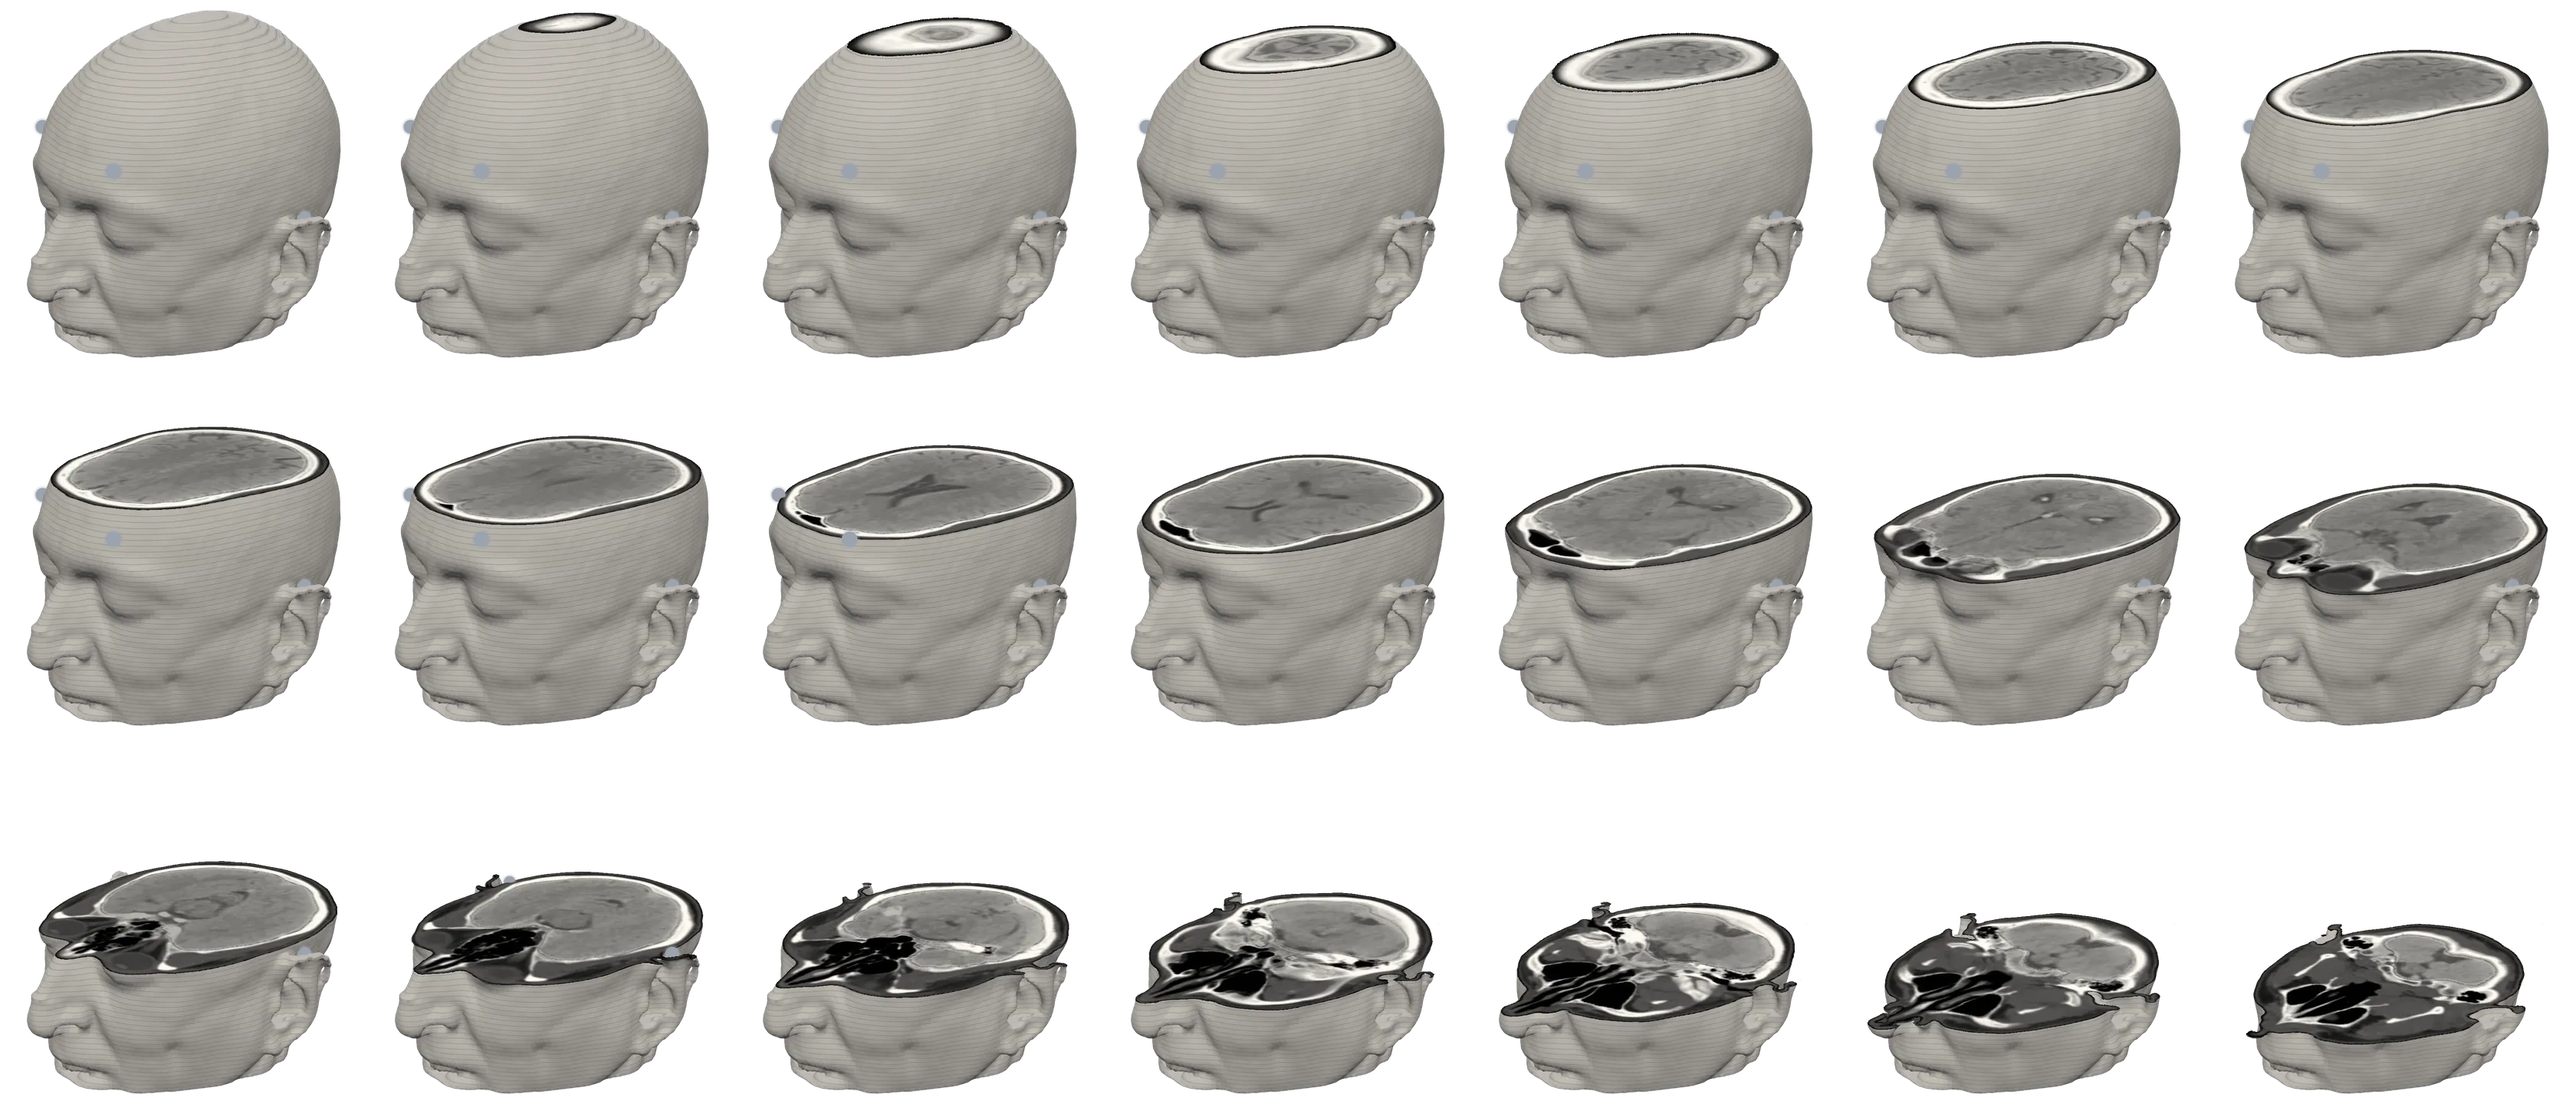
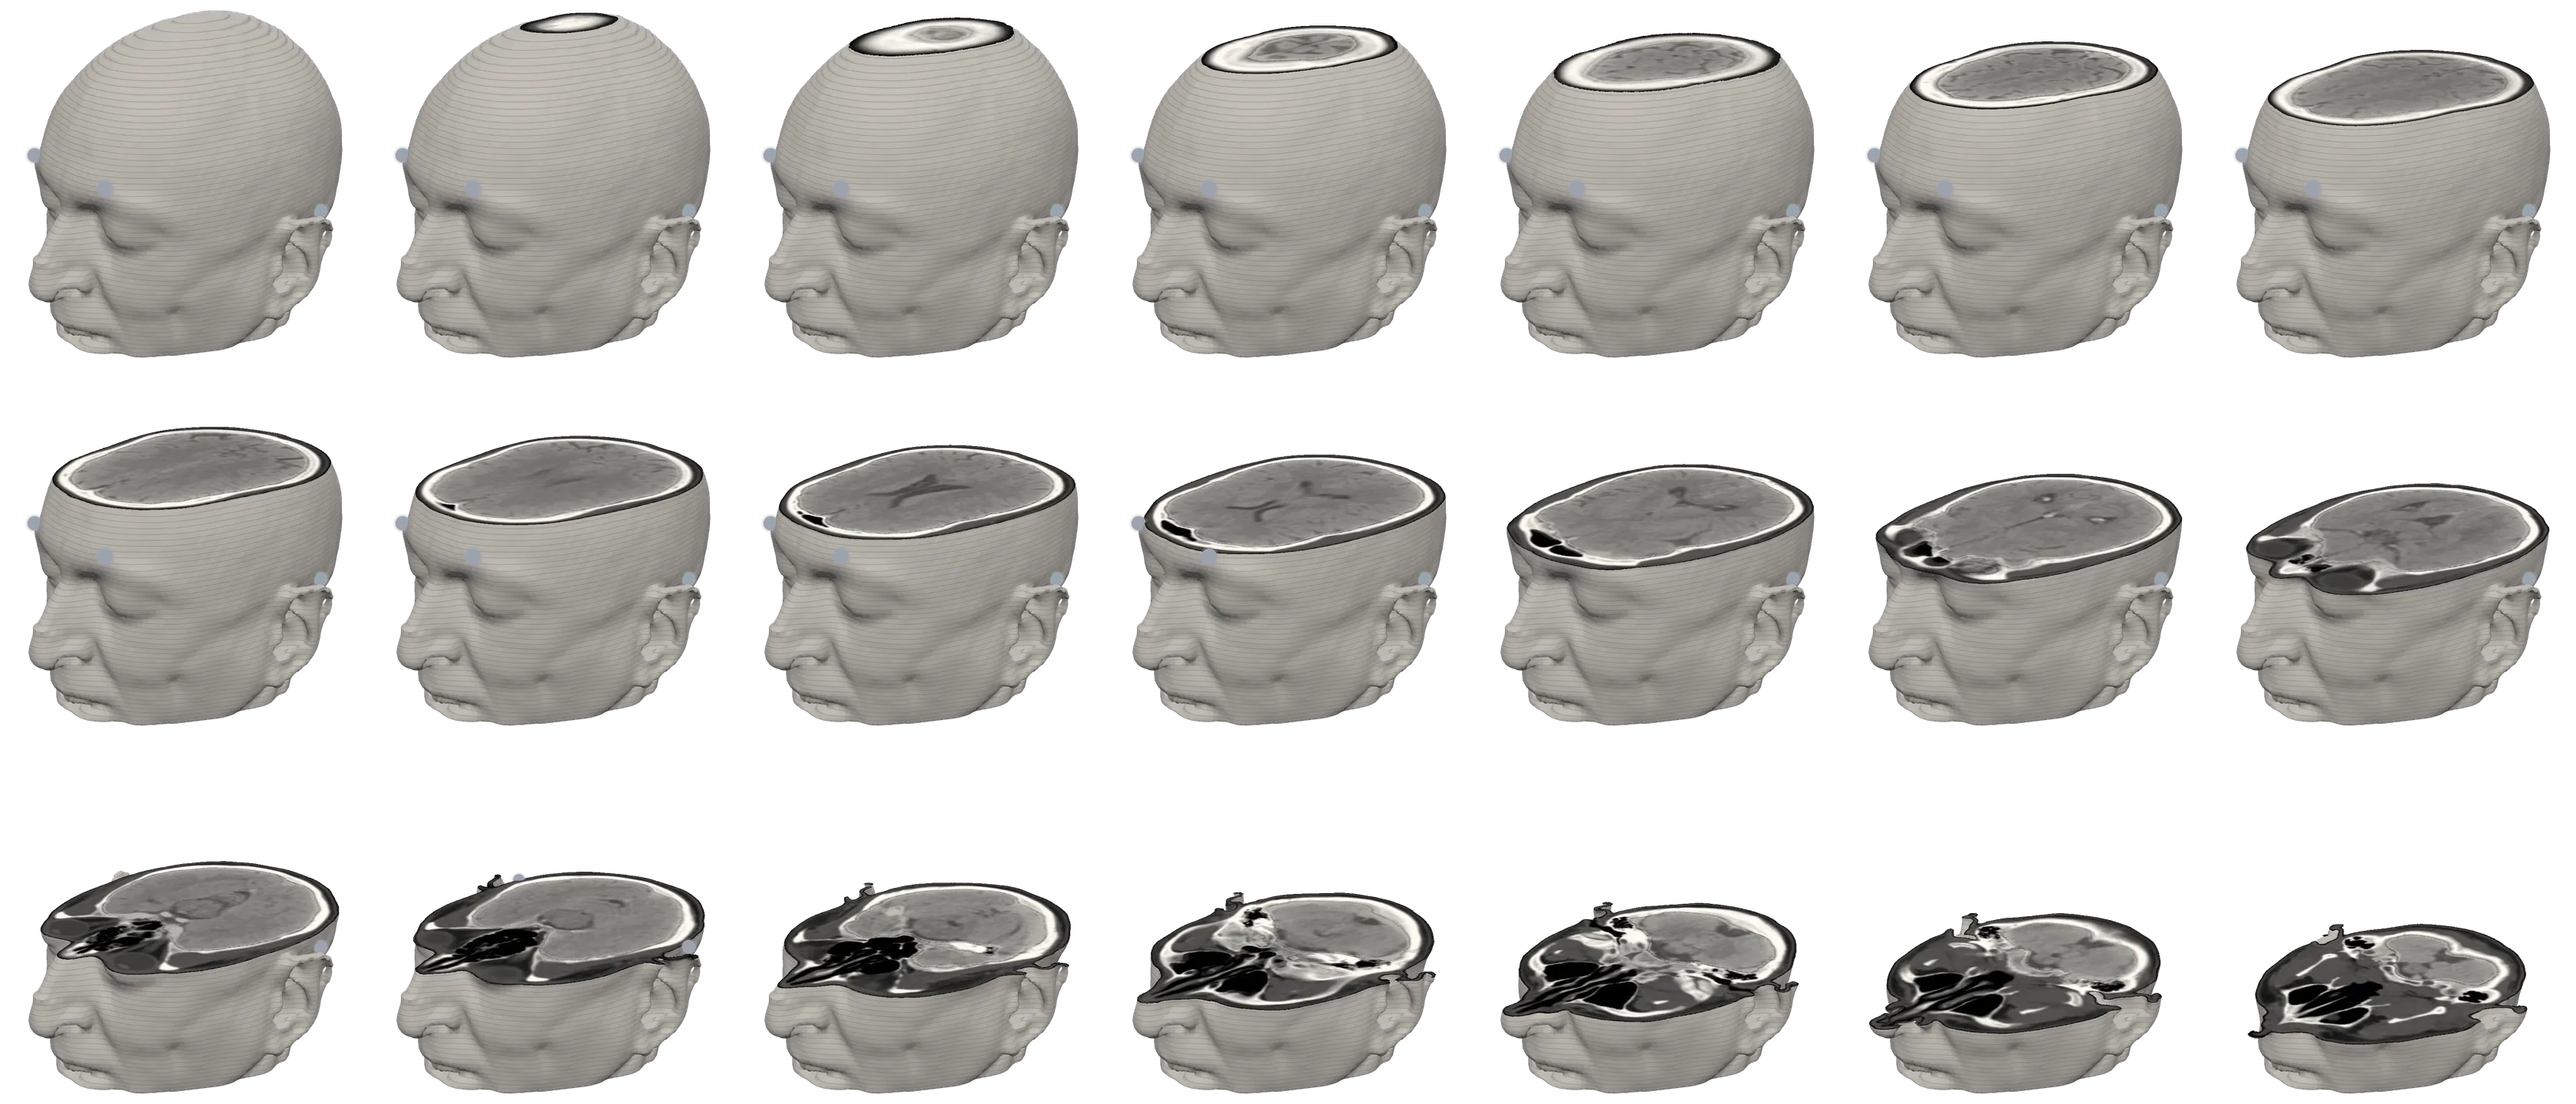
The head: forehead electrodes measured from the face's own midline, just above the eyebrows
The head lies turned 3.5 degrees in the scanner, and the bridge of the nose
is 10 mm to one side of the middle of the head's outline. Measured from that
middle, AF8 sat 49 mm from the nose and AF7 34 mm. The sites are now measured
from the face's own midline (the line from the back of the head through the
nasion, found on the scan): AF7 and AF8 are 32 mm either side of it, 25 mm
above the nasion, which on this head is just above the middle of each
eyebrow. The ear pair is measured from the same line.

The still picture and the sheet of pictures behind the home page's slider
are drawn again, since the dots are in them.

diff --git a/head/index.html b/head/index.html
@@ -348,7 +348,8 @@ function coverage() {                       // how much of the view the head cov
   for (let i = 0; i < d.length; i += 4) if (d[i + 3] > 40) { n += 1; sum += d[i] + d[i + 1] + d[i + 2]; }
   return { covered: n / 9216, mean: n ? sum / n / 3 : 0 };
 }
-window.__head = { state, ready: false, feed: handle, setCut: (a) => { state.opened = true; cut.value = String(a * 1000); setCut(a); }, png, coverage };
+function look(x, y, z) { camera.position.set(x, y, z); controls.update(); }      // stand somewhere else, for pictures of where the dots sit
+window.__head = { state, ready: false, feed: handle, setCut: (a) => { state.opened = true; cut.value = String(a * 1000); setCut(a); }, png, coverage, look };
 if (innerWidth < 900) $("about").open = false;
 load().then(() => requestAnimationFrame(frame)).catch((e) => { who.textContent = "The head could not be loaded (" + e.message + ")."; });
 </script>

diff --git a/head/make_head.py b/head/make_head.py
@@ -35,9 +35,12 @@ GRID_MM = 1.875                 # the surface's grid in the slice plane (4 scann
 Z_UP = 1.5                      # surface rows per slice spacing (the scan has a slice every 3 mm): a row every 2 mm
 # Where a Muse rests, as an angle round the head from the front (towards the wearer's left) and millimetres above the
 # bridge of the nose (the nasion, found on the scan as the deepest point of the midline between nose and forehead).
-# The forehead pair sits on the forehead, clear above the eyebrows (the brow ridge of this head is about 10 mm above
-# the nasion); the ear pair rests behind the ears, a little below it. Approximate: a script cannot feel for landmarks.
-SITES = (("AF7", 30.0, 34.0), ("AF8", -30.0, 34.0), ("TP9", 112.0, -12.0), ("TP10", -112.0, -12.0))
+# "The front" is the face's own: the line from the back of the head through the nasion. A head rarely lies square in
+# a scanner (this one is turned a few degrees), and measured from the middle of its outline one forehead electrode
+# lands nearer the nose than the other. The forehead pair sits just above the eyebrows, over the middle of each (the
+# brow of this head is 12 to 16 mm above the nasion); the ear pair rests behind the ears, a little below the nasion.
+# Approximate: a script cannot feel for landmarks.
+SITES = (("AF7", 19.0, 25.0), ("AF8", -19.0, 25.0), ("TP9", 112.0, -12.0), ("TP10", -112.0, -12.0))
 
 
 def load_axial(src):
@@ -194,20 +197,40 @@ def main():
     nasion_k = tip + 3 + int(np.argmin(front[tip + 3:tip + 3 + reach_k]))
     print("nose tip at slice %d, nasion at slice %d (%.0f mm below the top)" % (tip, nasion_k, (top - nasion_k) * dz))
 
+    # ---- the face's own midline, at the height of the nasion: from the back-most point of the head to the front-most
+    sl = body[nasion_k]
+    rows_in = np.nonzero(sl.any(1))[0]
+    depth = max(1, int(round(3.0 / dy)))
+
+    def middle_of(rows_):                                                      # the middle column of the head within these rows
+        cols_in = np.nonzero(sl[rows_].any(0))[0]
+        return (cols_in.min() + cols_in.max()) / 2.0
+
+    front_r, back_r = rows_in.min(), rows_in.max()
+    front_c, back_c = middle_of(slice(front_r, front_r + depth)), middle_of(slice(back_r - depth + 1, back_r + 1))
+    fwd = np.array([(front_c - back_c) * dx, (back_r - front_r) * dy])         # (to the left, to the front), millimetres
+    fwd /= np.linalg.norm(fwd)
+    left = np.array([fwd[1], -fwd[0]])                                         # a quarter turn towards the wearer's left
+    mid_r, mid_c = (front_r + back_r) / 2.0, (front_c + back_c) / 2.0          # the point the angles are measured round
+    yaw = float(np.degrees(np.arctan2(fwd[0], fwd[1])))
+    print("the face points %.1f degrees to the wearer's left of the scanner's front; nasion %.1f mm left of the outline's middle"
+          % (yaw, (front_c - axis_c) * dx))
+
     # ---- where a Muse's electrodes rest: out from the axis at an angle and a height, to the last point inside the skin
     def skin_point(angle_deg, above_nasion_mm):
         ks = nasion_k + above_nasion_mm / dz
         k0 = int(np.clip(round(ks), 0, n - 1))
         a = np.radians(angle_deg)
-        d = np.array([np.sin(a), np.cos(a)])                                 # (to the left, to the front) in millimetres
+        d = np.cos(a) * fwd + np.sin(a) * left                               # (to the left, to the front) in millimetres
         reach = 0.0
         for mm in np.arange(20.0, 140.0, 0.5):                               # out to where the ray first leaves the head:
-            rr_ = axis_r - d[1] * mm / dy                                    # the scalp behind the ear, not the ear beyond it
-            cc_ = axis_c + d[0] * mm / dx
+            rr_ = mid_r - d[1] * mm / dy                                     # the scalp behind the ear, not the ear beyond it
+            cc_ = mid_c + d[0] * mm / dx
             if not (0 <= rr_ < rows - 1 and 0 <= cc_ < cols - 1 and body[k0, int(round(rr_)), int(round(cc_))]):
                 break
             reach = mm
-        return [round(float(d[0] * reach), 1), round(float(Y(ks)), 1), round(float(d[1] * reach), 1)], [round(float(d[0]), 3), 0.0, round(float(d[1]), 3)]
+        at = [X(mid_c) + d[0] * reach, Y(ks), Z(mid_r) + d[1] * reach]
+        return [round(float(v), 1) for v in at], [round(float(d[0]), 3), 0.0, round(float(d[1]), 3)]
 
     sites = []
     for name, angle, above in SITES:
@@ -225,7 +248,7 @@ def main():
         "top_y_mm": round(float(Y(top)), 1),
         "electrodes": sites,
         "nasion_y_mm": round(float(Y(nasion_k)), 1),
-        "electrodes_note": "about where a Muse headband's four electrodes rest: the forehead pair on the forehead above the eyebrows, the ear pair behind the ears; placed by angle round the head and height above the bridge of the nose as found on the scan",
+        "electrodes_note": "about where a Muse headband's four electrodes rest: the forehead pair just above the eyebrows, the ear pair behind the ears; placed by angle from the face's own midline and height above the bridge of the nose, both found on the scan",
     }
     with open(os.path.join(HERE, "head.json.tmp"), "w", encoding="utf-8", newline="\n") as f:
         json.dump(info, f, indent=1)
